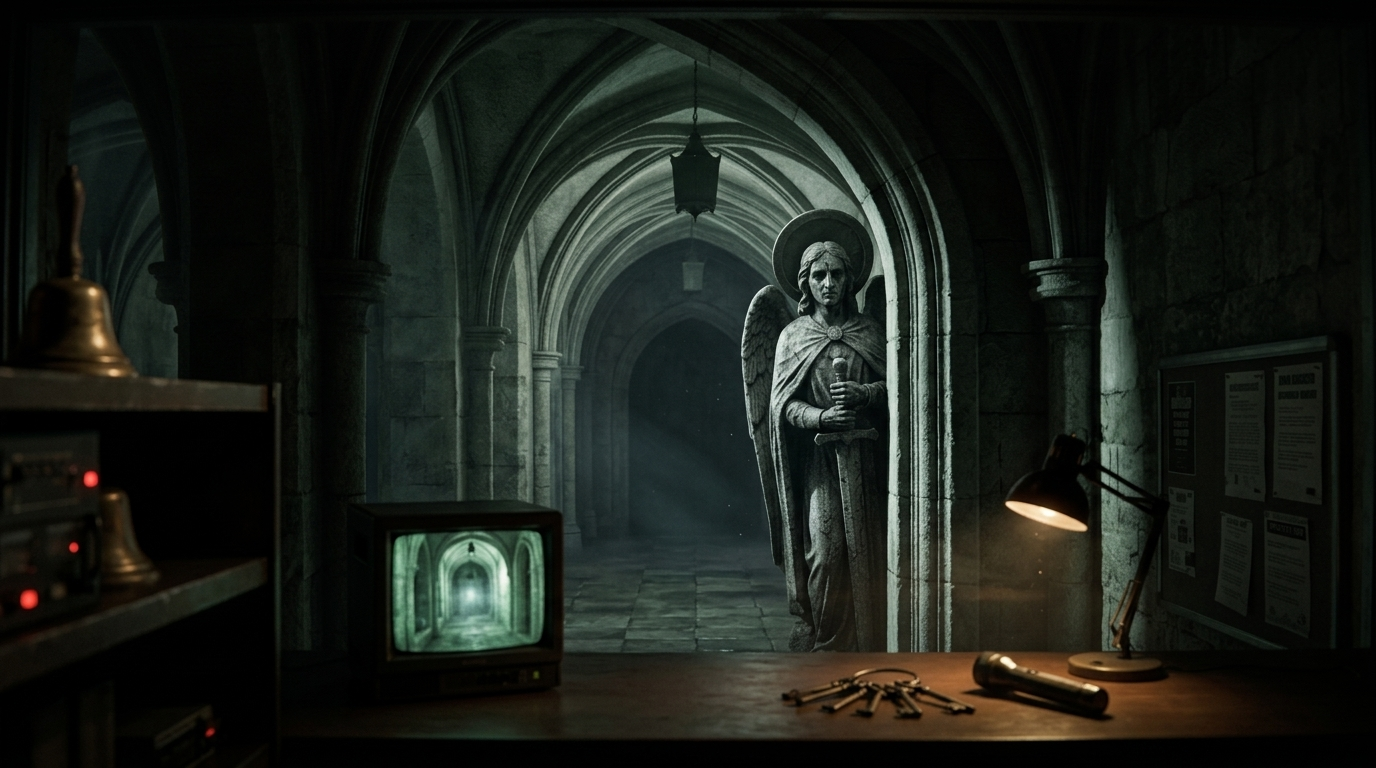
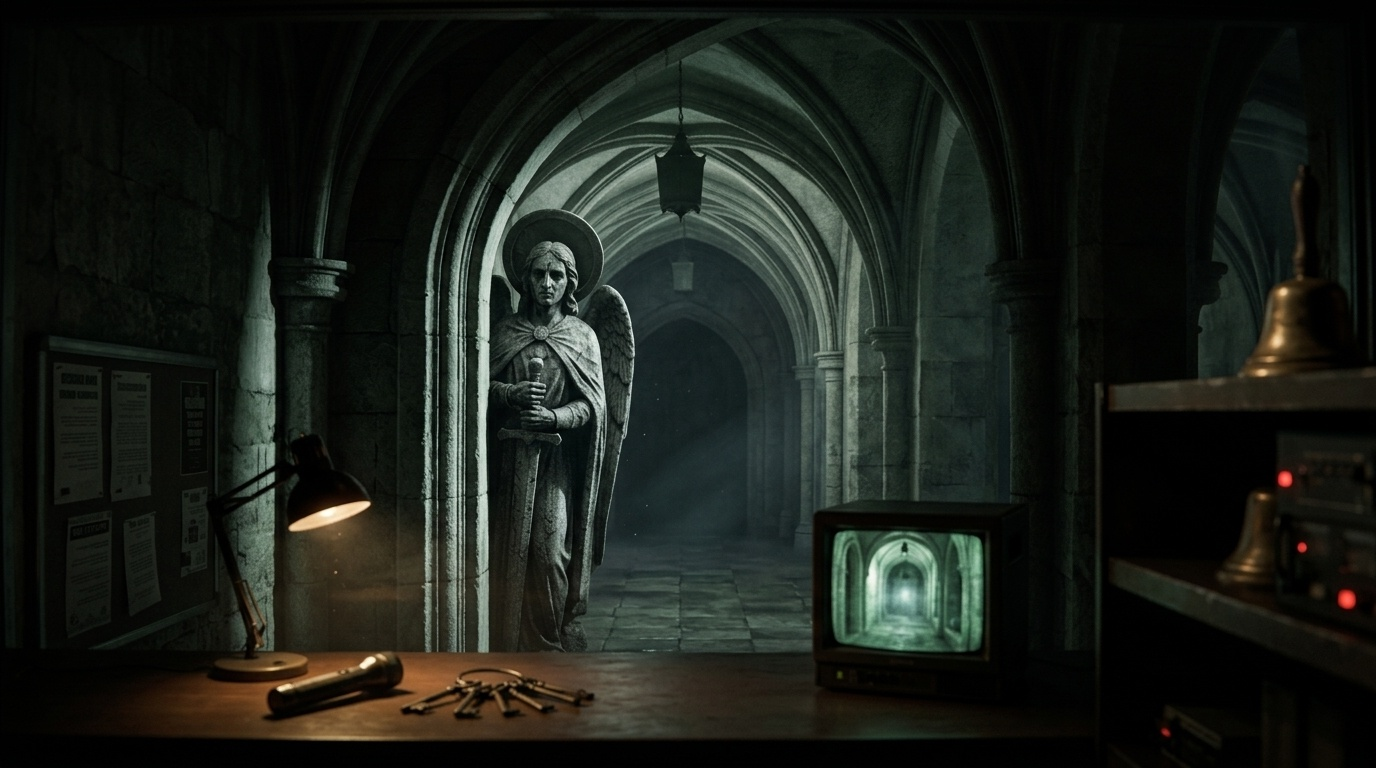
Correct door peeking entities to peek from left side of doorway

diff --git a/js/models.js b/js/models.js
@@ -425,10 +425,12 @@ class WorldBuilder {
 
     // --- PHOTOREALISTIC DOOR PEEKING ENTITY (Outside Arched Left Door) ---
     // Photorealistically displays the Weeping Angel or Haloed Saint when peeking outside
+    // Peeking strictly around the LEFT side of the doorway frame (left jamb at doorZ - doorW / 2 = -1.275)
+    // Leaving the right side open where the heavy church door swings open and closed
     const doorPeekingGroup = new THREE.Group();
     doorPeekingGroup.name = 'doorPeekingGroup';
-    doorPeekingGroup.position.set(-w / 2 - 0.16, 0, doorZ);
-    doorPeekingGroup.rotation.y = Math.PI * 0.44; // Angled slightly into office towards player desk
+    doorPeekingGroup.position.set(-w / 2 - 0.16, 0, -0.88);
+    doorPeekingGroup.rotation.y = Math.PI * 0.40; // Angled facing inward towards player desk
     doorPeekingGroup.visible = false;
 
     const doorPeekingTex = new THREE.TextureLoader().load('assets/entities/door_peeking_angel_clean.png');
@@ -441,19 +443,19 @@ class WorldBuilder {
       side: THREE.DoubleSide
     });
 
-    const doorPeekingGeo = new THREE.PlaneGeometry(1.15, 2.3);
+    const doorPeekingGeo = new THREE.PlaneGeometry(0.85, 2.25);
     const doorPeekingMesh = new THREE.Mesh(doorPeekingGeo, doorPeekingMat);
-    doorPeekingMesh.position.set(0, 1.15, 0); // Feet firmly grounded on corridor stone floor
+    doorPeekingMesh.position.set(0, 1.125, 0); // Feet firmly grounded on corridor stone floor
     doorPeekingGroup.add(doorPeekingMesh);
 
     // Glowing ember eyes peering out when corridor light is OFF
     const doorEyeMat = new THREE.MeshBasicMaterial({ color: 0x88d4ff });
     const doorEye1 = new THREE.Mesh(new THREE.SphereGeometry(0.016, 8, 8), doorEyeMat);
-    doorEye1.position.set(-0.05, 1.82, 0.04);
+    doorEye1.position.set(0.15, 1.96, 0.04);
     doorPeekingGroup.add(doorEye1);
 
     const doorEye2 = new THREE.Mesh(new THREE.SphereGeometry(0.016, 8, 8), doorEyeMat);
-    doorEye2.position.set(0.03, 1.82, 0.04);
+    doorEye2.position.set(0.27, 1.96, 0.04);
     doorPeekingGroup.add(doorEye2);
 
     officeGroup.add(doorPeekingGroup);

diff --git a/index.html b/index.html
@@ -890,7 +890,7 @@
           <!-- Card 1: Weeping Angel -->
           <div class="custom-entity-card">
             <div class="custom-portrait-wrap">
-              <img src="assets/office/door_peeking_angel.jpg" alt="Weeping Angel" class="custom-portrait" />
+              <img src="assets/office/door_peeking_angel.jpg?v=20261015_v24" alt="Weeping Angel" class="custom-portrait" />
               <div class="custom-portrait-overlay"></div>
             </div>
             <div class="custom-entity-details">
@@ -907,7 +907,7 @@
           <!-- Card 2: Haloed Saint (Michael) -->
           <div class="custom-entity-card">
             <div class="custom-portrait-wrap">
-              <img src="assets/office/door_peeking_saint.jpg" alt="Haloed Saint" class="custom-portrait" />
+              <img src="assets/office/door_peeking_saint.jpg?v=20261015_v24" alt="Haloed Saint" class="custom-portrait" />
               <div class="custom-portrait-overlay"></div>
             </div>
             <div class="custom-entity-details">
@@ -992,9 +992,9 @@
   </script>
 
   <!-- Game Modules -->
-  <script src="js/audio.js?v=20261015_v23"></script>
-  <script src="js/textures.js?v=20261015_v23"></script>
-  <script src="js/models.js?v=20261015_v23"></script>
-  <script src="js/game.js?v=20261015_v23"></script>
+  <script src="js/audio.js?v=20261015_v24"></script>
+  <script src="js/textures.js?v=20261015_v24"></script>
+  <script src="js/models.js?v=20261015_v24"></script>
+  <script src="js/game.js?v=20261015_v24"></script>
 </body>
 </html>

diff --git a/js/game.js b/js/game.js
@@ -770,11 +770,11 @@ class GameEngine {
       }
       if (mesh) {
         mesh.scale.set(1.0, 1.0, 1.0);
-        mesh.position.set(0, 1.15, 0);
+        mesh.position.set(0, 1.125, 0);
       }
       if (eyeMat) eyeMat.color.setHex(0x88d4ff);
-      if (eye1) eye1.position.set(-0.05, 1.82, 0.04);
-      if (eye2) eye2.position.set(0.03, 1.82, 0.04);
+      if (eye1) eye1.position.set(0.15, 1.96, 0.04);
+      if (eye2) eye2.position.set(0.27, 1.96, 0.04);
     } else if (isSaint) {
       if (mat && this.doorTextures?.saint && mat.map !== this.doorTextures.saint) {
         mat.map = this.doorTextures.saint;
@@ -782,11 +782,11 @@ class GameEngine {
       }
       if (mesh) {
         mesh.scale.set(0.95, 1.0, 1.0);
-        mesh.position.set(0, 1.15, 0);
+        mesh.position.set(0, 1.125, 0);
       }
       if (eyeMat) eyeMat.color.setHex(0xffaa22);
-      if (eye1) eye1.position.set(-0.04, 1.88, 0.04);
-      if (eye2) eye2.position.set(0.05, 1.88, 0.04);
+      if (eye1) eye1.position.set(0.15, 1.96, 0.04);
+      if (eye2) eye2.position.set(0.27, 1.96, 0.04);
     }
 
     // Dynamic corridor lighting response:
